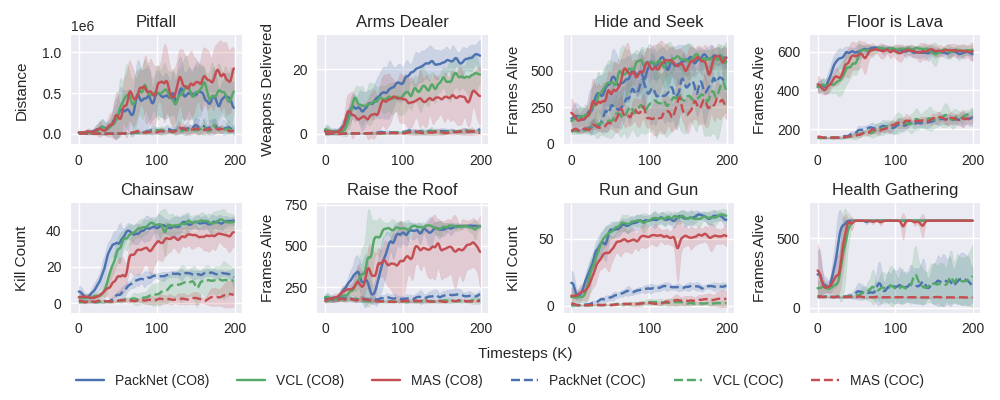
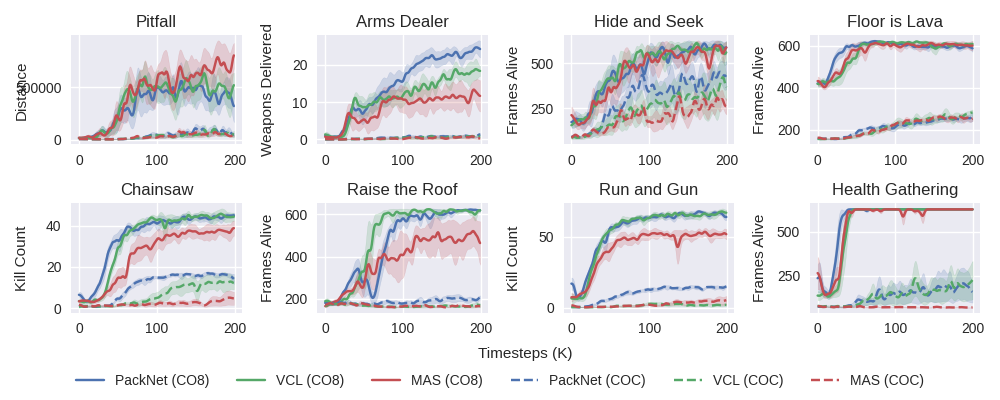
Improved plotting forgetting

diff --git a/experiments/results/plot_forgetting_comparison.py b/experiments/results/plot_forgetting_comparison.py
@@ -65,7 +65,7 @@ def main(cfg: argparse.Namespace) -> None:
     seeds = ['1', '2', '3']
     metric = cfg.metric
     n_envs = args.n_envs
-    fig, ax = plt.subplots(len(METHODS), 1, sharey=True, sharex=True, figsize=(12, 7))
+    fig, ax = plt.subplots(len(METHODS), 1, sharey='all', sharex='all', figsize=(12, 8))
     env_names = [TRANSLATIONS[e] for e in SEQUENCES[args.sequences[0]]]
     env_names = env_names[:n_envs]
     max_steps = -np.inf
@@ -100,7 +100,7 @@ def main(cfg: argparse.Namespace) -> None:
                 t_crit = np.abs(t.ppf(significance, dof))
                 ci = std * t_crit / np.sqrt(len(seeds))
 
-                ax[i].plot(mean, label=TRANSLATIONS[env], color=colors[j], linestyle=LINE_STYLES[s])
+                ax[i].plot(mean, label=TRANSLATIONS[env], color=colors[j], linestyle=LINE_STYLES[s], linewidth=1)
                 ax[i].tick_params(labelbottom=True)
                 ax[i].fill_between(np.arange(iterations), mean - ci, mean + ci, alpha=0.2, color=colors[j])
 
@@ -134,7 +134,7 @@ def parse_args() -> argparse.Namespace:
                         choices=['CD4', 'CO4', 'CD8', 'CO8', 'COC'],
                         help="Names of the task sequences")
     parser.add_argument("--metric", type=str, default='success', help="Name of the metric to plot")
-    parser.add_argument("--confidence", type=float, default=0.7, help="Confidence interval")
+    parser.add_argument("--confidence", type=float, default=0.95, help="Confidence interval")
     parser.add_argument("--task_length", type=int, default=200, help="Number of iterations x 1000 per task")
     parser.add_argument("--n_envs", type=int, default=4, help="Number of environments to plot")
     return parser.parse_args()
